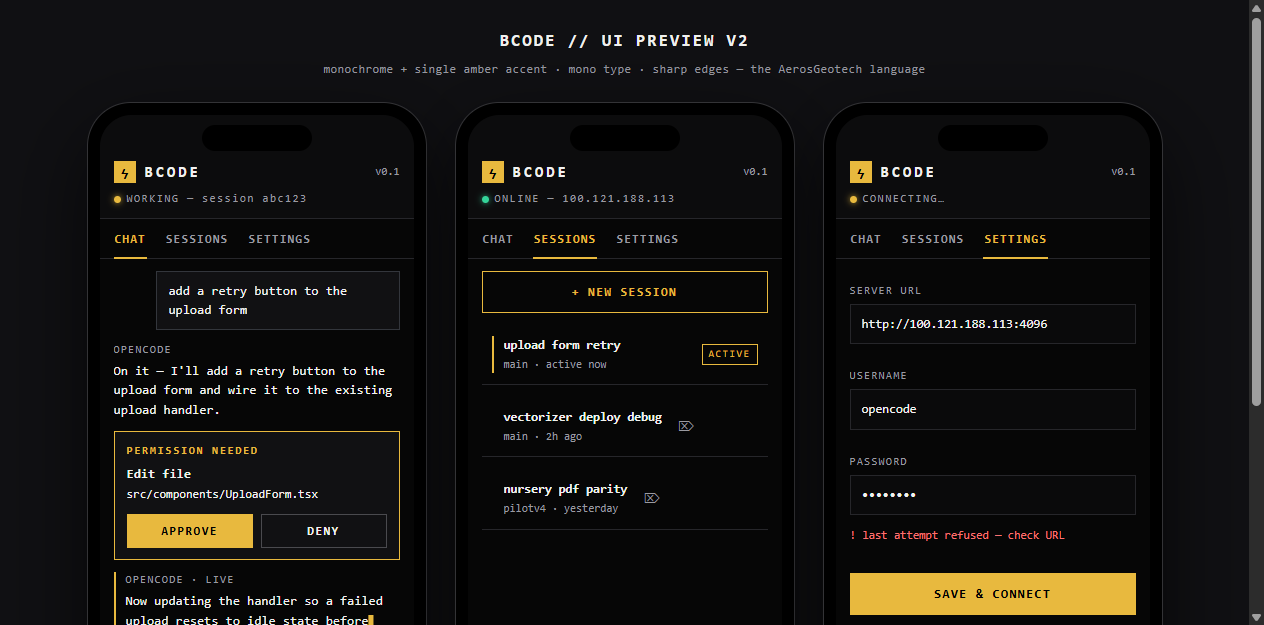
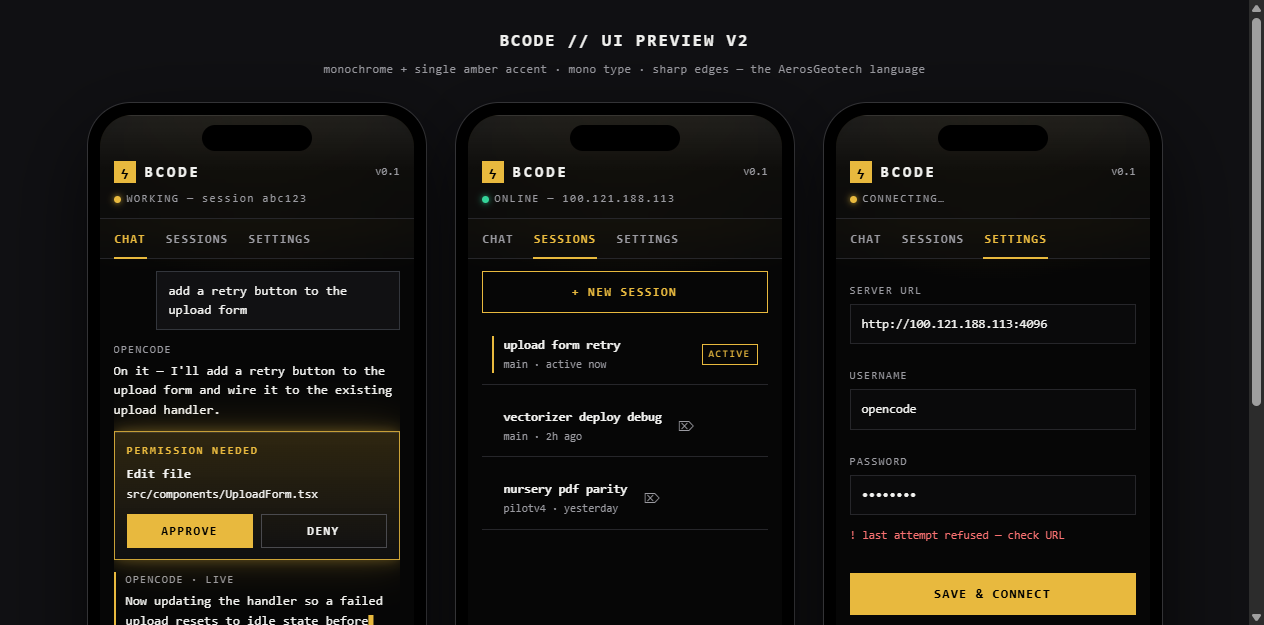
bcode UI v2: glass header + ambient glow + halo permission card

diff --git a/docs/UI-PREVIEW.html b/docs/UI-PREVIEW.html
@@ -32,7 +32,10 @@
     box-shadow: 0 30px 80px rgba(0,0,0,.6);
   }
   .screen {
-    width: 100%; height: 100%; background: var(--bg); border-radius: 32px; overflow: hidden;
+    width: 100%; height: 100%; border-radius: 32px; overflow: hidden;
+    background:
+      radial-gradient(140% 55% at 50% -10%, rgba(232,185,62,.18), transparent 62%),
+      var(--bg);
     display: flex; flex-direction: column; position: relative;
   }
   .notch {
@@ -43,7 +46,15 @@
   .caption b { color: var(--txt); }
   /* ---- bcode v2 ---- */
   .bc { display: flex; flex-direction: column; height: 100%; font-size: 13px; }
-  .bc-head { padding: 46px 14px 10px; background: var(--surface); border-bottom: 1px solid var(--line); }
+  .bc-head { padding: 46px 14px 10px;
+    background:
+      linear-gradient(180deg, rgba(255,255,255,.07), rgba(255,255,255,0) 55%),
+      rgba(12,12,13,.72);
+    backdrop-filter: blur(16px) saturate(1.3);
+    border-bottom: 1px solid var(--line);
+    box-shadow: inset 0 1px 0 rgba(255,255,255,.09),
+      0 1px 0 rgba(232,185,62,.3), 0 12px 36px rgba(232,185,62,.14);
+    position: relative; z-index: 2; }
   .bc-row1 { display: flex; align-items: center; gap: 9px; }
   .bc-mark {
     width: 22px; height: 22px; background: var(--amber); color: #000;
@@ -55,7 +66,9 @@
   .bc-status { display: flex; align-items: center; gap: 6px; margin-top: 8px; font-size: 11px; letter-spacing: 1.5px; color: var(--mut); }
   .bc-dot { width: 7px; height: 7px; border-radius: 50%; background: var(--ok); box-shadow: 0 0 7px var(--ok); }
   .bc-dot.busy { background: var(--amber); box-shadow: 0 0 7px var(--amber); }
-  .bc-tabs { display: flex; gap: 18px; padding: 12px 14px 0; border-bottom: 1px solid var(--line); }
+  .bc-tabs{display:flex;gap:18px;padding:12px 14px 0;
+    background:rgba(12,12,13,.72);backdrop-filter:blur(16px) saturate(1.3);
+    border-bottom:1px solid var(--line);position:relative;z-index:2}
   .bc-tab {
     padding: 0 1px 9px; font-size: 11.5px; font-weight: 700; letter-spacing: 1.5px;
     color: var(--mut); cursor: pointer; border-bottom: 2px solid transparent; margin-bottom: -1px;
@@ -72,7 +85,12 @@
   .a.live { border-left: 2px solid var(--amber); padding-left: 10px; }
   .caret { display: inline-block; width: 8px; animation: blink 1s steps(1) infinite; color: var(--amber); }
   @keyframes blink { 50% { opacity: 0; } }
-  .perm { align-self: flex-start; width: 100%; background: var(--card); border: 1px solid var(--amber); padding: 11px 12px; }
+  .perm { align-self: flex-start; width: 100%; padding: 11px 12px;
+    border: 1px solid rgba(232,185,62,.85);
+    background: linear-gradient(180deg, rgba(232,185,62,.18), rgba(17,17,19,.85));
+    backdrop-filter: blur(12px) saturate(1.2);
+    box-shadow: inset 0 1px 0 rgba(255,255,255,.1),
+      0 0 14px rgba(232,185,62,.35), 0 0 44px rgba(232,185,62,.2); }
   .perm-k { font-size: 10.5px; color: var(--amber); font-weight: 700; letter-spacing: 2px; }
   .perm-t { font-weight: 700; margin: 5px 0 2px; }
   .perm-d { color: var(--mut); font-size: 12px; }

diff --git a/android/src/bcode.css b/android/src/bcode.css
@@ -18,7 +18,9 @@
   display: flex;
   flex-direction: column;
   height: 100%;
-  background: var(--bc-bg);
+  background:
+    radial-gradient(140% 55% at 50% -10%, rgba(232, 185, 62, 0.18), transparent 62%),
+    var(--bc-bg);
   color: var(--bc-ink);
   font-family: var(--bc-mono);
   font-size: 13px;
@@ -28,14 +30,24 @@
 .bc-page { height: 100%; display: flex; flex-direction: column; }
 .bc-page > .bc { flex: 1; min-height: 0; }
 
-/* header */
+/* header — frosted glass over the ambient glow */
 .bc-top {
   display: flex;
   align-items: center;
   gap: 10px;
   padding: 12px 14px 10px;
   border-bottom: 1px solid var(--bc-hairline);
-  background: var(--bc-surface);
+  background:
+    linear-gradient(180deg, rgba(255, 255, 255, 0.07), rgba(255, 255, 255, 0) 55%),
+    rgba(12, 12, 13, 0.72);
+  -webkit-backdrop-filter: blur(16px) saturate(1.3);
+  backdrop-filter: blur(16px) saturate(1.3);
+  box-shadow:
+    inset 0 1px 0 rgba(255, 255, 255, 0.09),
+    0 1px 0 rgba(232, 185, 62, 0.3),
+    0 12px 36px rgba(232, 185, 62, 0.14);
+  position: relative;
+  z-index: 2;
 }
 .bc-dot {
   width: 7px;
@@ -65,7 +77,11 @@
   gap: 18px;
   padding: 12px 14px 0;
   border-bottom: 1px solid var(--bc-hairline);
-  background: var(--bc-surface);
+  background: rgba(12, 12, 13, 0.72);
+  -webkit-backdrop-filter: blur(16px) saturate(1.3);
+  backdrop-filter: blur(16px) saturate(1.3);
+  position: relative;
+  z-index: 2;
 }
 .bc-tab {
   border: none;
@@ -160,10 +176,17 @@
 }
 @keyframes bc-blink { 50% { opacity: 0; } }
 
-/* permission card */
+/* permission card — glass with an amber ambient halo */
 .bc-perm {
-  border: 1px solid var(--bc-accent);
-  background: var(--bc-card);
+  border: 1px solid rgba(232, 185, 62, 0.85);
+  background:
+    linear-gradient(180deg, rgba(232, 185, 62, 0.18), rgba(17, 17, 19, 0.85));
+  -webkit-backdrop-filter: blur(12px) saturate(1.2);
+  backdrop-filter: blur(12px) saturate(1.2);
+  box-shadow:
+    inset 0 1px 0 rgba(255, 255, 255, 0.1),
+    0 0 14px rgba(232, 185, 62, 0.35),
+    0 0 44px rgba(232, 185, 62, 0.2);
   padding: 11px 12px;
   display: flex;
   flex-direction: column;

diff --git a/docs/DESIGN.md b/docs/DESIGN.md
@@ -24,3 +24,12 @@ monospace, sharp edges. Change a value here → change it in both
   1.5–2px tracking for labels/tabs/status
 - radius ..... 0–2px everywhere. Sharp. Pills and gradient text
   are banned.
+- glass ...... header + tab strip: white 4.5% top sheen over
+  rgba(12,12,13,.72) + backdrop blur(16px) saturate(1.3),
+  inset 1px top highlight, faint amber edge (18%) + ambient
+  drop 0 10px 32px amber 9%. Permission card: amber-tinted
+  gradient (amber 14% → card 85%) + blur(12px), amber border
+  75%, halo 0 0 36px amber 18%. Screen sits under a faint top
+  ambient: radial amber 11% fading by 60%. Blur is progressive
+  enhancement — flat rgba fallback on old WebViews.
+  (Flutter: BackdropFilter + same tokens.)
